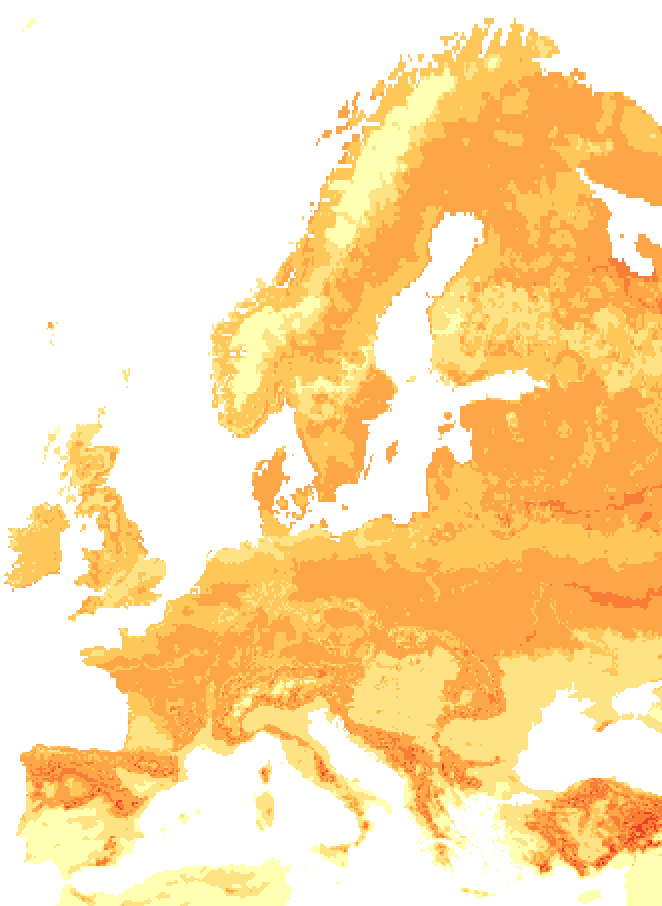
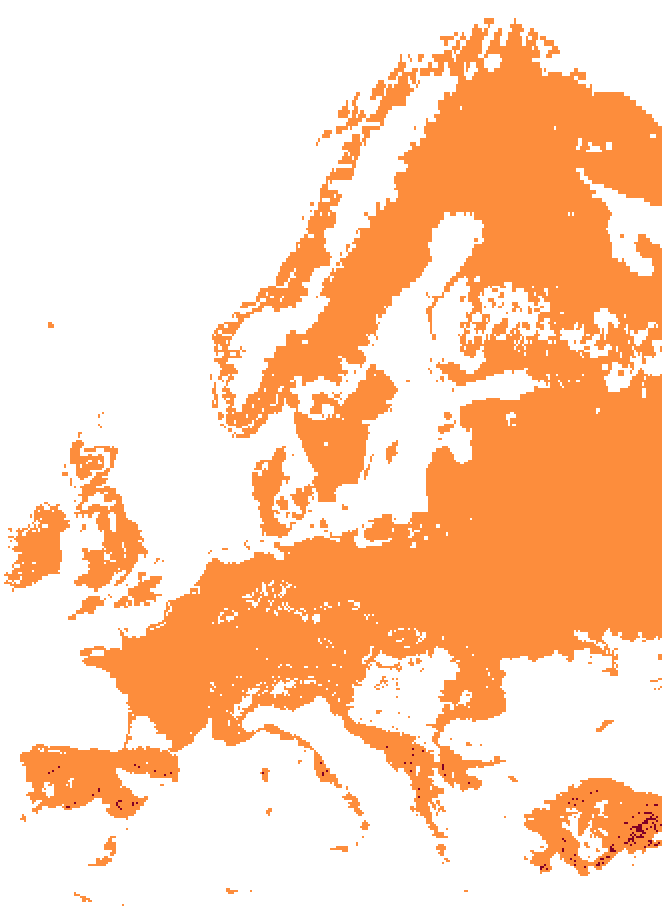
Contrasting gen colours + near-future contrast layer
Generations now use 3 vivid categorical colours (yellow/orange-red/crimson)
instead of a blue gradient — makes the 1→2→3 shift immediately readable.

New 'contrast' view: shows near-future generation map with gain zones
highlighted in saturated orange/dark-red over the base generation colours.

Legend updated to match: generation swatches for gen views, gradient bars
for continuous GDD views.

diff --git a/index.html b/index.html
@@ -857,6 +857,7 @@
             <select id="phenipsViewSelector">
               <option value="abs">Absolute values</option>
               <option value="diff">Change vs. historical</option>
+              <option value="contrast">Now vs. near-future contrast</option>
             </select>
           </div>
           <div class="small">Ensemble mean · 3 GCMs · RCP8.5 · bark-temp corrected (Baier et al. 2007) · max 3 generations (photoperiod-gated)</div>
@@ -1293,10 +1294,15 @@
     function getPhenipsImagePath() {
       const p = APP.currentPhenisPeriod;
       const v = APP.currentPhenipsVar;
-      const isDiff = APP.currentPhenipsView === "diff" && p !== "hist";
-      const file = isDiff
-        ? "phenips_" + v + "_diff_" + p + ".png"
-        : "phenips_" + v + "_" + p + ".png";
+      const view = APP.currentPhenipsView;
+      let file;
+      if (view === "contrast" && v === "gen") {
+        file = "phenips_gen_contrast.png";  // always the hist→near contrast
+      } else if (view === "diff" && p !== "hist") {
+        file = "phenips_" + v + "_diff_" + p + ".png";
+      } else {
+        file = "phenips_" + v + "_" + p + ".png";
+      }
       return "webmap_data/phenips/" + file;
     }
 
@@ -1571,20 +1577,40 @@
       DOM.legendBar.style.background = "linear-gradient(to right, #7ec8ff 0%, #39a9ff 16.6%, #00c2a8 33.2%, #7ad151 49.8%, #fde725 66.4%, #f8961e 83%, #f94144 100%)";
       if (topOverlayId === "phenips") {
         const v = APP.currentPhenipsVar;
-        const isDiff = APP.currentPhenipsView === "diff" && APP.currentPhenisPeriod !== "hist";
-        DOM.legendBar.style.display = "block";
-        if (v === "gdd" && !isDiff) {
+        const view = APP.currentPhenipsView;
+        const p = APP.currentPhenisPeriod;
+        DOM.legendBar.style.display = "none";
+        if (v === "gdd" && view === "abs") {
+          DOM.legendBar.style.display = "block";
           DOM.legendBar.style.background = "linear-gradient(to right,#ffffcc,#fed976,#fd8d3c,#e31a1c,#800026)";
           DOM.legendMin.textContent = "0 DD";
           DOM.legendMax.textContent = "4000 DD";
-        } else if (v === "gen" && !isDiff) {
-          DOM.legendBar.style.background = "linear-gradient(to right,#f7fbff,#9ecae1,#4292c6,#08519c,#08306b)";
-          DOM.legendMin.textContent = "0 gen";
-          DOM.legendMax.textContent = "3 gen";
-        } else {
+        } else if (v === "gdd" && view !== "abs") {
+          DOM.legendBar.style.display = "block";
           DOM.legendBar.style.background = "linear-gradient(to right,#ffffb2,#fecc5c,#fd8d3c,#e31a1c,#800026)";
-          DOM.legendMin.textContent = v === "gen" ? "0 gen" : "0 DD";
-          DOM.legendMax.textContent = v === "gen" ? "+2.5 gen" : "+1100 DD";
+          DOM.legendMin.textContent = "0 DD";
+          DOM.legendMax.textContent = "+1100 DD";
+        } else {
+          // generations — categorical swatches
+          renderLegendSwatches([
+            { color: "#ffff50", label: "1 generation" },
+            { color: "#fd571c", label: "2 generations" },
+            { color: "#8b0000", label: "3 generations" }
+          ]);
+          if (view === "contrast") {
+            DOM.legendMin.textContent = "Now (hist) →";
+            DOM.legendMax.textContent = "near-future gain";
+          } else if (view === "diff" && p !== "hist") {
+            renderLegendSwatches([
+              { color: "#fd8d3c", label: "+1 generation" },
+              { color: "#800026", label: "+2 generations" }
+            ]);
+            DOM.legendMin.textContent = "no change";
+            DOM.legendMax.textContent = "max gain";
+          } else {
+            DOM.legendMin.textContent = "0 gen";
+            DOM.legendMax.textContent = "3 gen";
+          }
         }
         return;
       }
